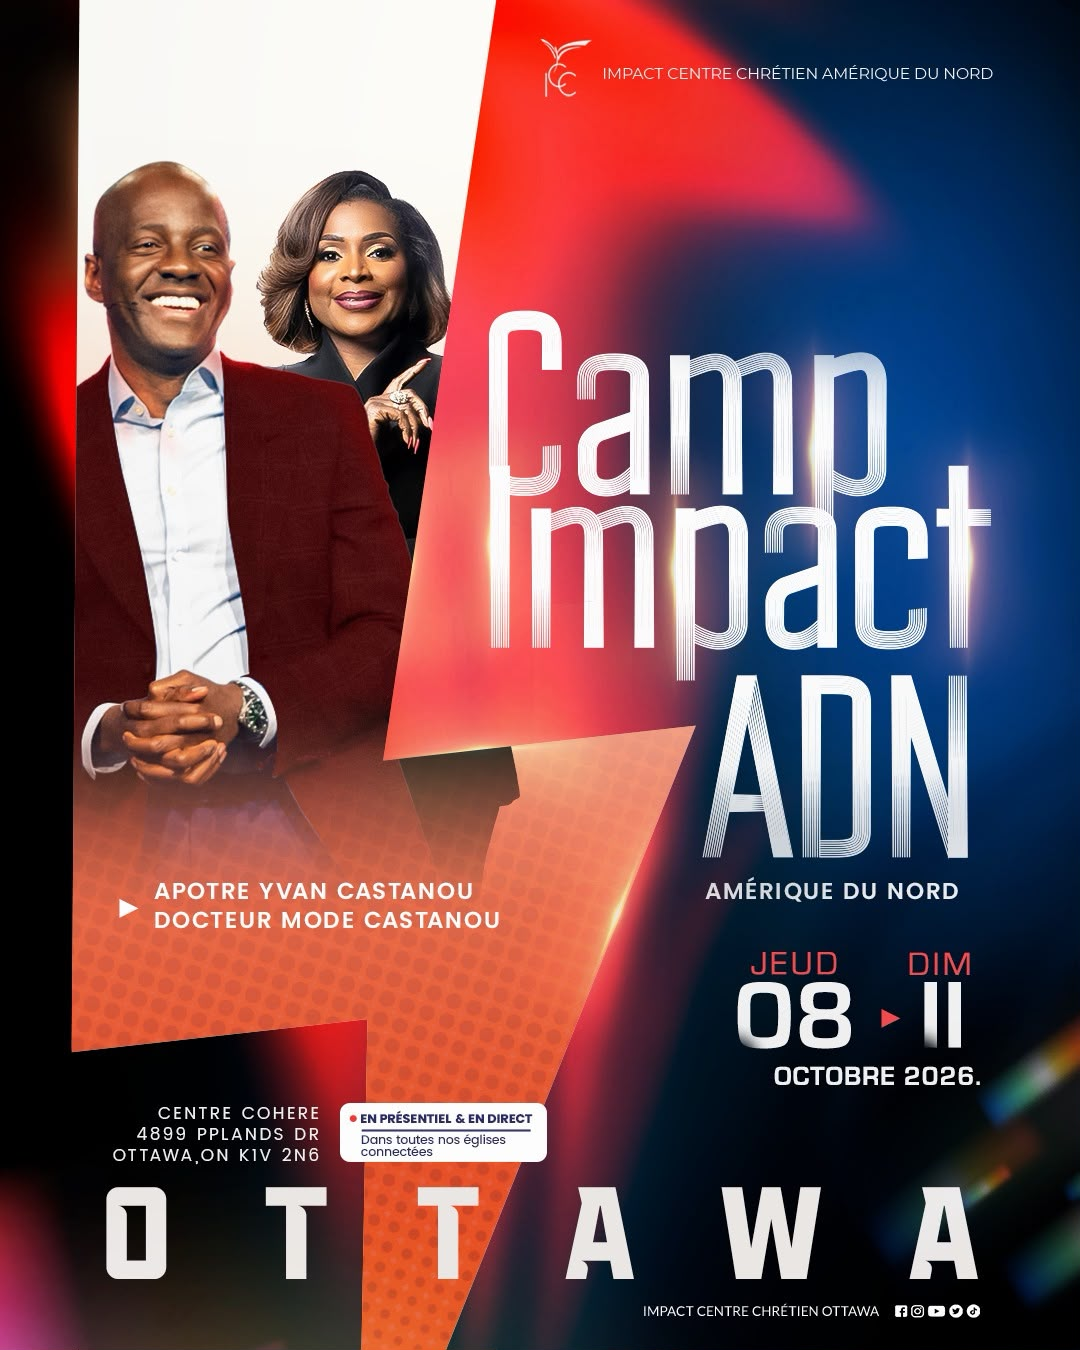
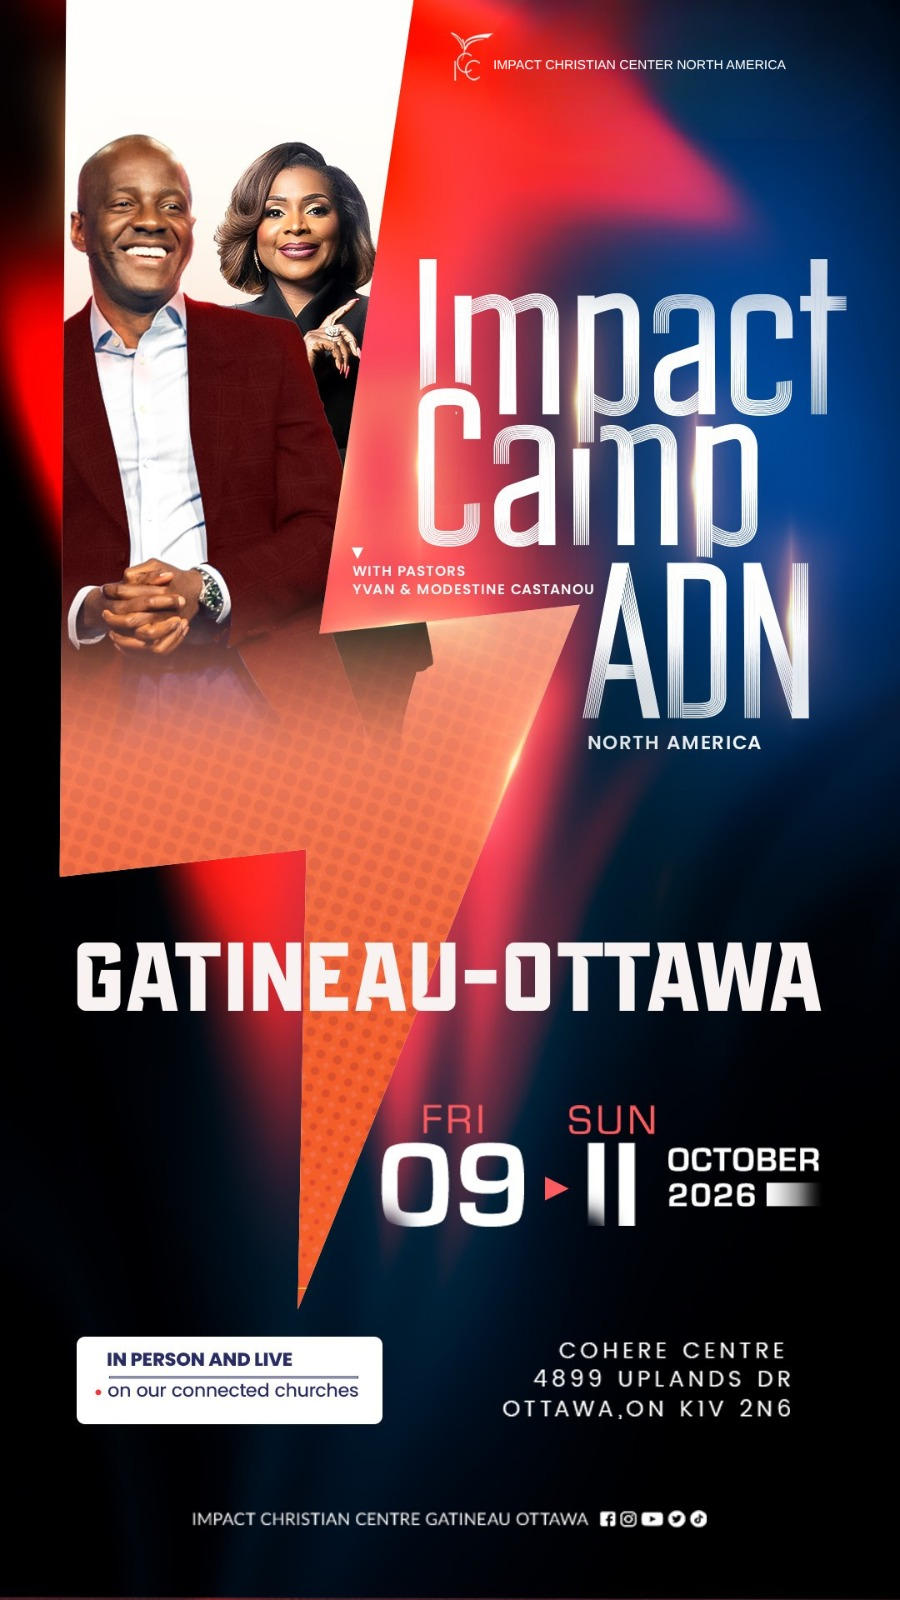
ajouts de produits

diff --git a/src/data/products.js b/src/data/products.js
@@ -21,8 +21,6 @@ export const products = [
       'La version sobre du t-shirt bordeaux : logo IMPACT et ovale « CAMP ADN » imprimés en blanc.',
     price: 30,
     image: '/images/03.PNG',
-    // `image` sert de vignette, `images` alimente la visionneuse.
-    // Facultatif : sans lui, la visionneuse n'affiche que `image`.
     images: ['/images/03.PNG', '/images/02.PNG'],
     stock: { M: 15, L: 20, XL: 15 },
   },
@@ -133,6 +131,28 @@ export const products = [
       'Sweat à capuche noir. « DISCIPLE » sur le devant et « à l’image de Dieu » au dos, où le dégradé rouge à bleu éclate sur le fond sombre.',
     price: 50,
     images: ['/images/14-1.jpeg', '/images/14-2.jpeg'],
+    stock: { M: 15, L: 20, XL: 15 },
+  },
+
+  // T-shirts « Made to be like Christ » : flamme brodée à la poitrine
+  // devant, lettrage calligraphié au dos. Même remarque que les hoodies
+  // ci-dessus — deux vues d'un même vêtement, recadrage centré.
+  {
+    id: 'tee-christ-blanc',
+    name: 'T-shirt CHRIST — Blanc',
+    description:
+      'T-shirt blanc coupe oversize, col rond côtelé. Flamme rouge à bleu sur la poitrine, « Made to be like Christ » calligraphié en grand au dos.',
+    price: 30,
+    images: ['/images/15-1.jpeg', '/images/15-2.jpeg'],
+    stock: { M: 15, L: 20, XL: 15 },
+  },
+  {
+    id: 'tee-christ-bleu',
+    name: 'T-shirt CHRIST — Bleu roi',
+    description:
+      'La même pièce en bleu roi. Le lettrage « Made to be like Christ » ressort en orange vif sur le fond profond.',
+    price: 30,
+    images: ['/images/16-1.jpeg', '/images/16-2.jpeg'],
     stock: { M: 15, L: 20, XL: 15 },
   },
 

diff --git a/src/components/Hero.jsx b/src/components/Hero.jsx
@@ -30,14 +30,14 @@ export default function Hero() {
             zone claire de l'image en dessous. */}
         <div className="absolute inset-0 -z-10 bg-linear-to-br from-bordeaux-950/95 via-bordeaux-800/85 to-bordeaux-700/75" />
 
-        <div className="px-6 py-12 text-white sm:px-10 sm:py-16">
+        <div className="px-6 py-12 text-white sm:px-16 sm:py-28">
           <p className="text-xs font-semibold uppercase tracking-[0.2em] text-bordeaux-200">
             Précommande · Édition 2026
           </p>
 
-          <h1 className="mt-4 font-display text-4xl uppercase leading-[0.92] drop-shadow-sm sm:text-5xl">
+          <h1 className="mt-4 font-display text-4xl uppercase  tracking-wide leading-[0.92] drop-shadow-sm sm:text-5xl">
             Boutique officielle
-            <span className="block text-bordeaux-200">Camp Impact ADN</span>
+            <span className="mt-2 block text-bordeaux-200">Camp Impact ADN</span>
           </h1>
 
           {/* Reprise du dégradé rouge → bleu imprimé sur les vêtements. */}
